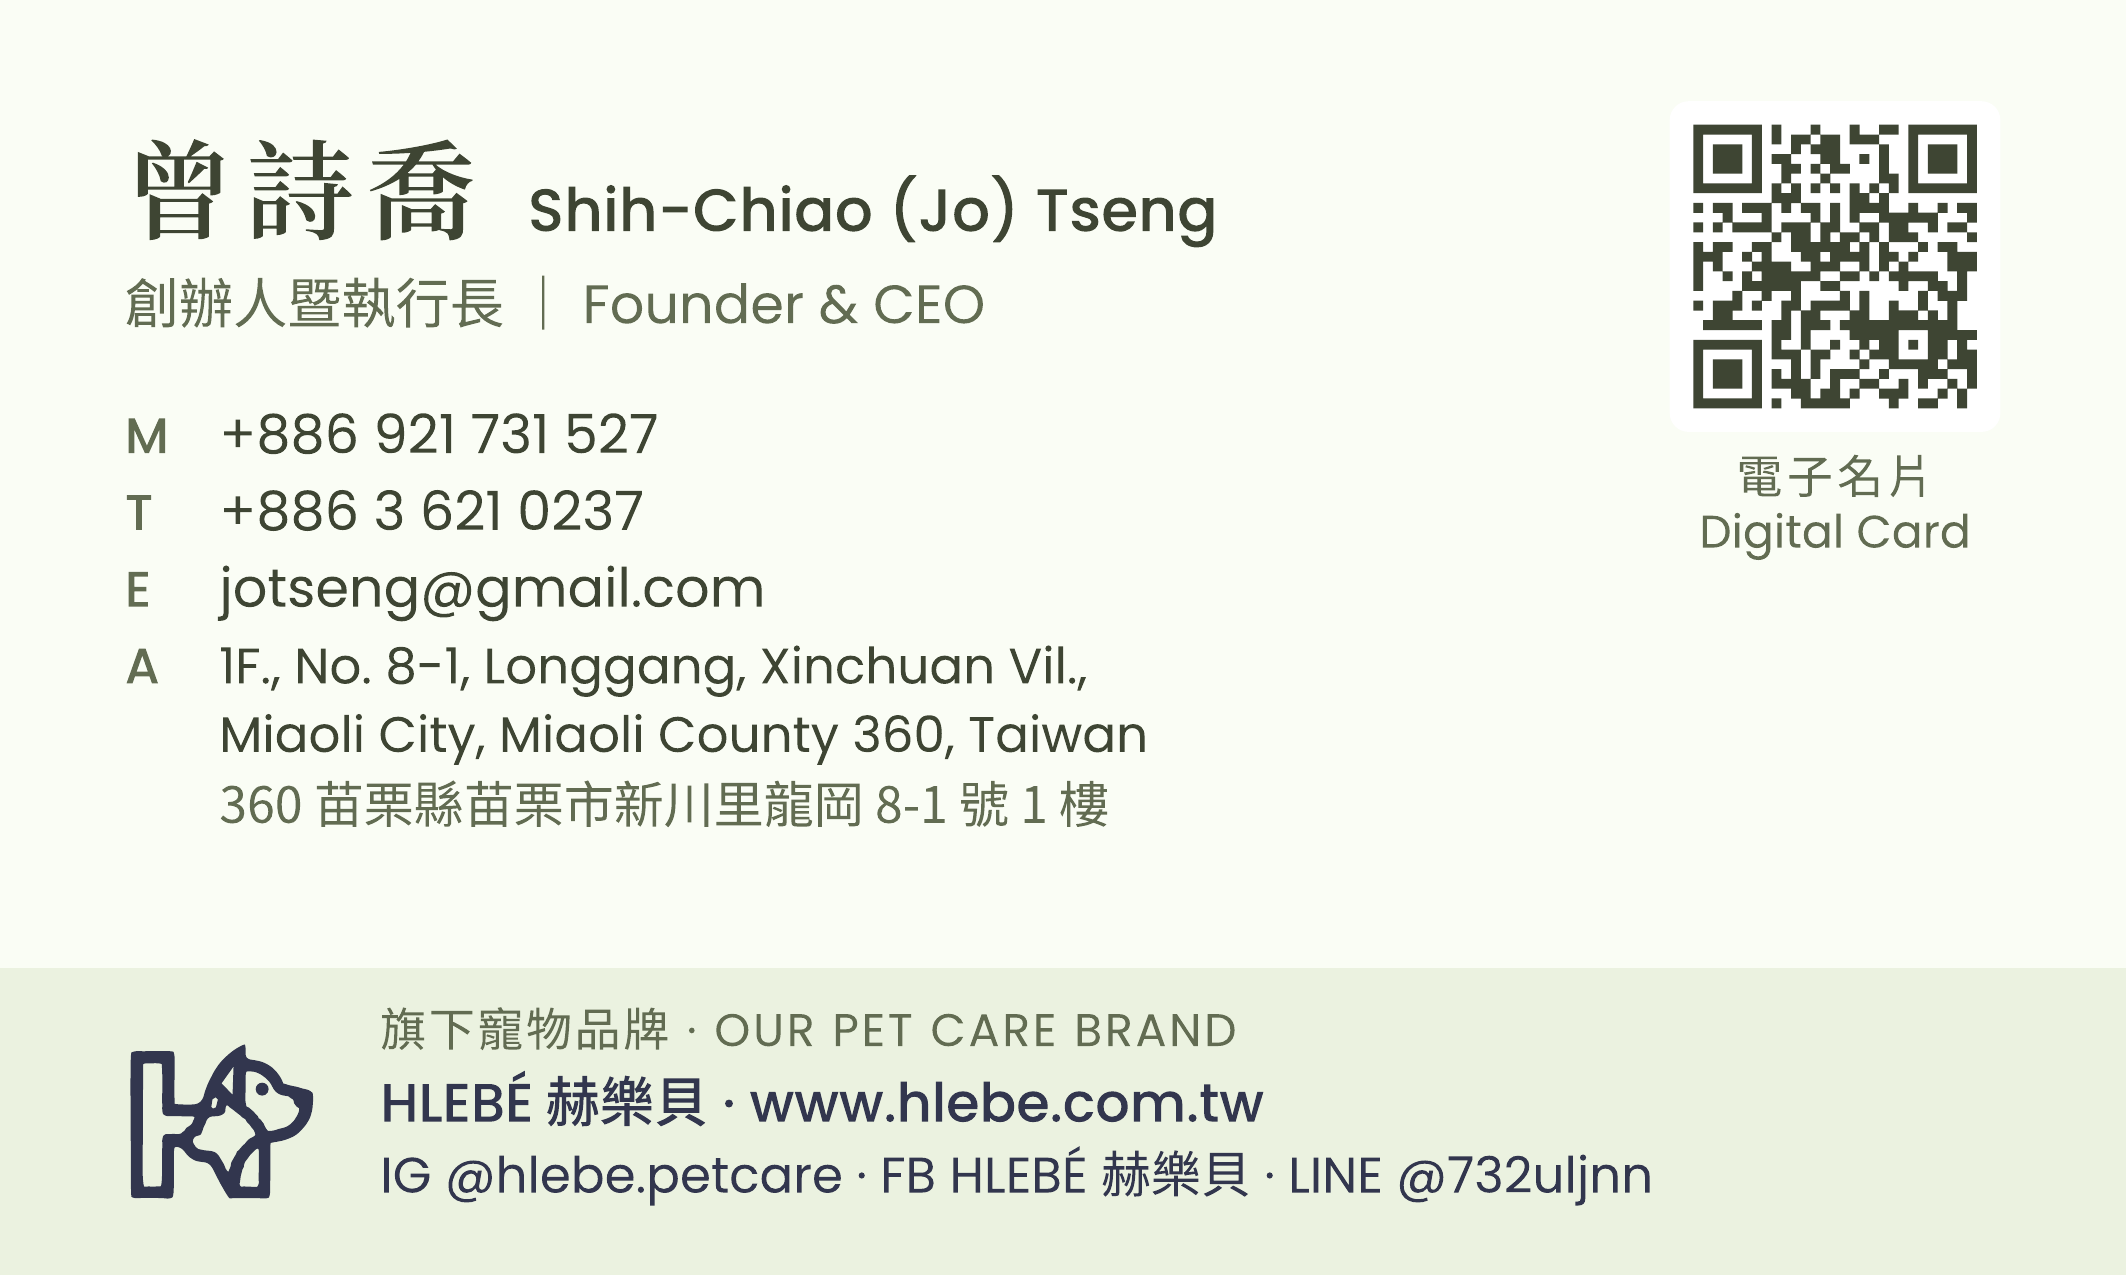
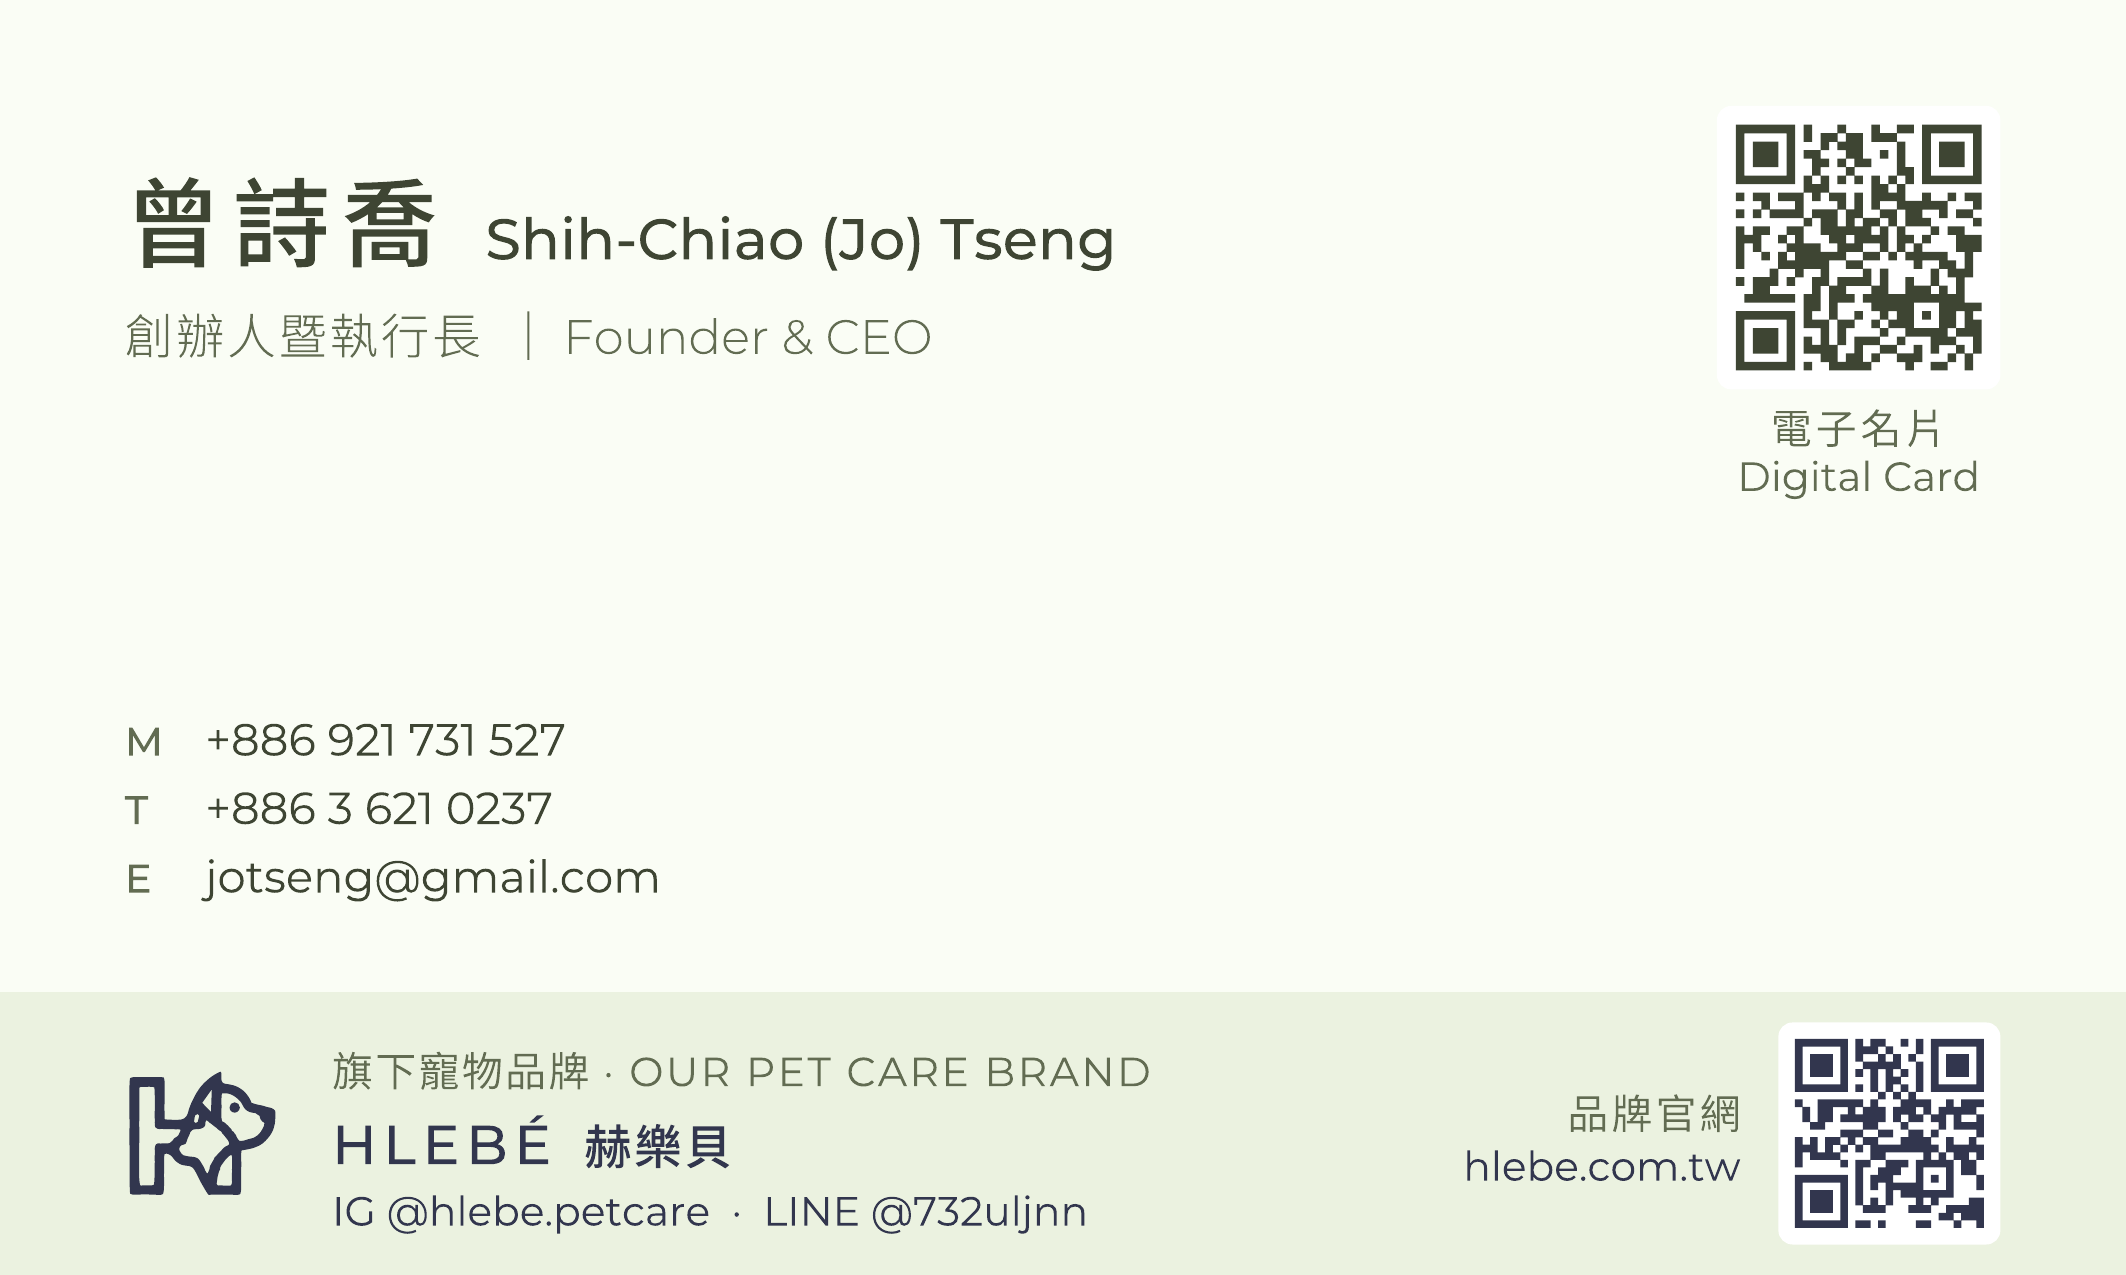
名片定稿：現代黑體（思源黑體＋Montserrat）、移除地址、聯絡資訊縮小下移、HLEBÉ 區改放官網 QR Code
Claude-Session: https://claude.ai/code/session_014AvDNFf411kLQeK6L45Uu3

diff --git a/index.html b/index.html
@@ -8,13 +8,13 @@
 <meta name="theme-color" content="#D5DCCC">
 <link rel="preconnect" href="https://fonts.googleapis.com">
 <link rel="preconnect" href="https://fonts.gstatic.com" crossorigin>
-<link rel="stylesheet" href="https://fonts.googleapis.com/css2?family=Noto+Sans+TC:wght@400;500;700&family=Poppins:wght@400;500&display=swap">
+<link rel="stylesheet" href="https://fonts.googleapis.com/css2?family=Noto+Sans+TC:wght@400;500;700&family=Montserrat:wght@400;500&display=swap">
 <style>
   :root { --ground:#D5DCCC; --tint:#E9EDE3; --paper:#F8F9F5; --ink:#2E3B2A; --muted:#535E4D; }
   *, *::before, *::after { box-sizing: border-box; margin: 0; padding: 0; }
-  body { font-family: 'Noto Sans TC', 'Poppins', system-ui, sans-serif; background: var(--paper); color: var(--ink);
+  body { font-family: 'Noto Sans TC', 'Montserrat', system-ui, sans-serif; background: var(--paper); color: var(--ink);
          min-height: 100vh; display: flex; justify-content: center; padding: 32px 16px calc(32px + env(safe-area-inset-bottom)); }
-  .en { font-family: 'Poppins', 'Noto Sans TC', sans-serif; }
+  .en { font-family: 'Montserrat', 'Noto Sans TC', sans-serif; }
   main { width: 100%; max-width: 720px; display: flex; flex-direction: column; gap: 24px; }
   header h1 { font-size: 22px; font-weight: 700; letter-spacing: .08em; }
   header p { font-size: 13px; color: var(--muted); margin-top: 4px; }
@@ -45,7 +45,7 @@
 
   <figure>
     <figcaption>背面 <span class="en">BACK</span></figcaption>
-    <img src="card-back.png" width="2126" height="1275" alt="名片背面：曾詩喬 Shih-Chiao (Jo) Tseng，創辦人暨執行長 Founder & CEO，手機 +886 921 731 527，電話 +886 3 621 0237，jotseng@gmail.com，旗下寵物品牌 HLEBÉ 赫樂貝">
+    <img src="card-back.png" width="2126" height="1275" alt="名片背面：曾詩喬 Shih-Chiao (Jo) Tseng，創辦人暨執行長 Founder & CEO，手機 +886 921 731 527，電話 +886 3 621 0237，jotseng@gmail.com，旗下寵物品牌 HLEBÉ 赫樂貝與官網 QR Code">
   </figure>
 
   <div class="actions">
